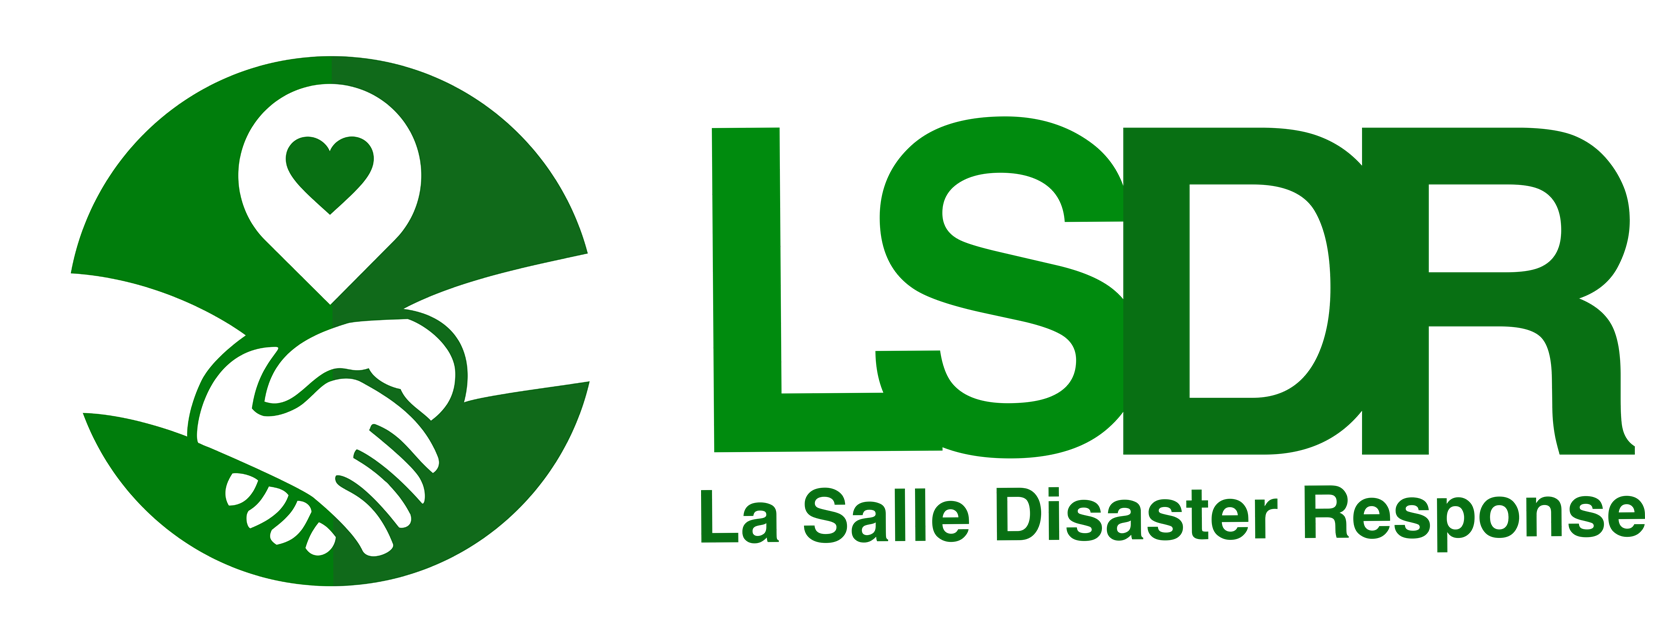
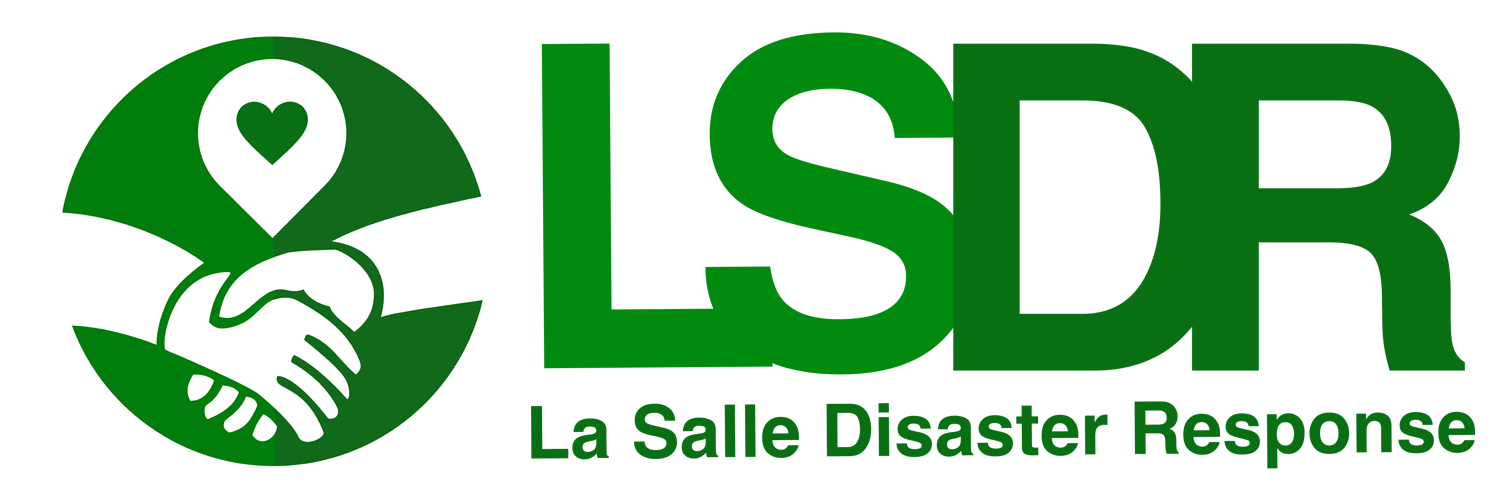
made navbar brand bigger

diff --git a/src/components/EventList.vue b/src/components/EventList.vue
@@ -1,14 +1,19 @@
 <template>
   <v-app>
     <v-navigation-drawer clipped floating fixed width="25%" class="pt-12" id="body">
-      <h2 class="headline mx-6 mt-8 mb-4" style="color:#427f50;"><b>Disaster Events</b></h2>
+      <h2 class="headline mx-6 mt-8 mb-2" style="color:#427f50;"><b>Disaster Events</b></h2>
+      <v-btn small text color="#184725" class="px-2 mx-4 mb-3">
+        <span>Active</span>
+      </v-btn>
+      <v-btn small text color="#184725" class="px-2 mx-4 mb-3">
+        <span>Archived</span>
+      </v-btn>
       <v-card width='auto' class="mb-6 mx-4 d-card" id="card" v-for="doc in activeTopLevelDocs" :key="doc.id" @click="displayEvent(doc.id)">
         <v-list-item three-line>
           <v-list-item-content>
             <v-list-item-title style="color:#427f50;" class="headline mb-1" >{{doc.title}}</v-list-item-title>
             <v-list-item-subtitle >Lead School: //lead school</v-list-item-subtitle>
             <div class="overline mt-2" >Updated: {{doc.last_updated}}</div>
-
           </v-list-item-content>
         </v-list-item>
       </v-card>
@@ -47,7 +52,7 @@ export default {
 }
 
 .d-card{
-  background-color:;
+  background-color:white;
 }
 
 </style>

diff --git a/src/components/Navbar.vue b/src/components/Navbar.vue
@@ -1,7 +1,7 @@
 <template>
   <div class="root">
-    <v-app-bar fixed elevate-on-scroll color="white">
-      <img class="mr-3" :src="require('../assets/brand.png')" height="40"/>
+    <v-app-bar elevate-on-scroll fixed color="white">
+      <img class="mr-12" :src="require('../assets/brand.png')" height="55px"/>
       <v-spacer></v-spacer>
       <v-btn small text color="#184725" class="px-2 mx-2"
         to="/">
@@ -23,7 +23,10 @@
         <v-icon small class="pr-2">mdi-comment-question</v-icon>
         <span class="font-weight-light">About</span>
       </v-btn>
-      <v-btn small dark style="background:#184725;" @click="toggleForm">+ Event</v-btn>
+      <v-btn  small class="px-2 mx-2"
+              dark style="background:#184725;" 
+              @click="toggleForm">+ Event
+      </v-btn>
     </v-app-bar>
     <!--Event Form Dialog-->
     <v-dialog v-model="dialog" scrollable persistent>
